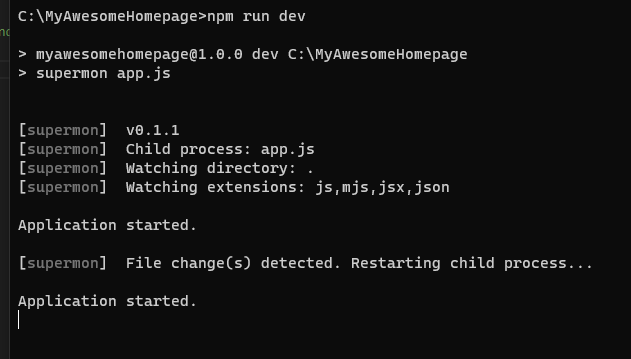
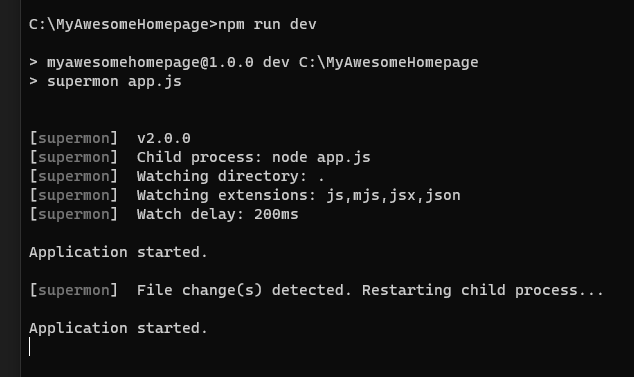
fix: Outdated readme help (#60)
* Upated to new screenshot

* Updated to new help

diff --git a/README.md b/README.md
@@ -42,21 +42,25 @@ supermon npm run server
 
 ```help
 Options:
-  --watchdir        Which directory to watch for changes                [string]
-  --polling         Use polling (CPU and memory tax)                   [boolean]
-  --noFirstRunSync  Don't do full sync on first run                    [boolean]
-  --version         Show version number
-  --help            Show help
+  --watch          Directory to watch for file changes   [string] [default: "."]
+  --ext            Comma separated list of file extensions to watch      [array]
+  --delay          How many ms to wait after file changes[number] [default: 200]
+  --exec           Executable to run the command on                     [string]
+  --legacywatch    Use polling instead of FS events                    [boolean]
+  --skipfirstsync  Don't do full sync on first run                     [boolean]
+  --version        Show version number                                 [boolean]
+  --help           Show help                                           [boolean]
+  --debug          Show debug information                              [boolean]
 
-Note: If supermon arguments are provided, it is recommended to use "--" as separator between supermon and application
+Note: If supermon arguments are provided, it is recommended to use "--" as separator between supermon and application command
 
-Note: [boolean] options do not require value to be specified
+Note: Boolean options do not require value to be specified
 
 Note: All options can also be configured through environment variables with
-      "SUPERMON_" prefix. (fe. "SUPERMON_POLLING=true")
+      "SUPERMON_" prefix. (fe. "SUPERMON_LEGACYWATCH=true")
 
 Example use: "supermon app.js"
-Example use: "supermon --watchdir=dist -- app.js --port=80"
+Example use: "supermon --watch=dist -- app.js --port=80"
 ```
 
 ## Contributing
